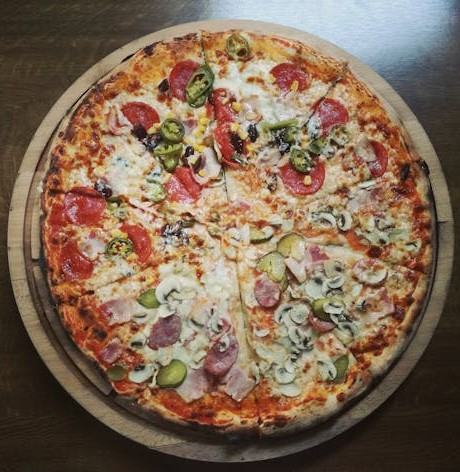
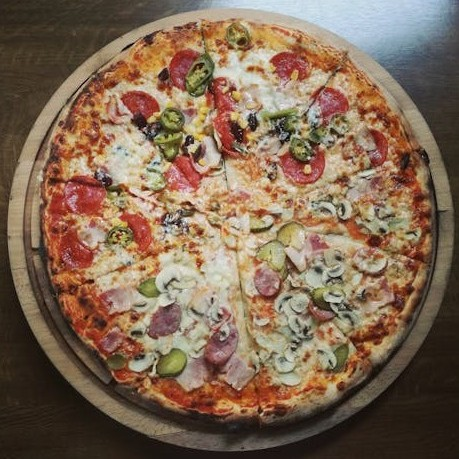
add text to category items

diff --git a/src/components/Categories.tsx b/src/components/Categories.tsx
@@ -10,12 +10,12 @@ function Categories() {
     return (
         <div className="categories"><h2>Categories - need scrollable element here</h2>
             <div className="category-items-container">
-                <div className="category-item"> <img src={burger} alt="Burger" /></div>
-                <div className="category-item"><img src={american} alt="American BBQ" /></div>
-                <div className="category-item"><img src={cafe} alt="Cafe food" /></div>
-                <div className="category-item"><img src={japanese} alt="Japanese ramen" /></div>
-                <div className="category-item"><img src={wraps} alt="Wraps" /></div>
-                <div className="category-item"><img src={pizza} alt="Pizza" /></div>
+                <div className="category-item"> <img src={burger} alt="Burger" /><p>Burger</p></div>
+                <div className="category-item"><img src={american} alt="American BBQ" /><p>American</p></div>
+                <div className="category-item"><img src={cafe} alt="Cafe food" /><p>Cafe</p></div>
+                <div className="category-item"><img src={japanese} alt="Japanese ramen" /><p>Japanese</p></div>
+                <div className="category-item"><img src={wraps} alt="Wraps" /><p>Wraps</p></div>
+                <div className="category-item"><img src={pizza} alt="Pizza" /><p>Pizza</p></div>
             </div>
             
         </div>

diff --git a/src/index.css b/src/index.css
@@ -199,14 +199,15 @@ header{
 }
 
 .category-items-container{
-  height: 11rem;
+  height: 14rem;
   width: auto;
   display: flex;
   gap: 1rem 2rem;
   justify-content: flex-start;
   flex-shrink: 0;
   margin-top: 2rem;
-  padding-top: 0.5rem;
+  padding-top: 0rem;
+  border-radius: 1rem;
   background: #888;
   overflow: scroll;
 
@@ -219,14 +220,17 @@ header{
   /* border: 2px solid green; */
   border-radius: 1rem;
   
-  height: 9.7rem;
+  height: 13rem;
   width: 9.7rem;
   min-width: 9.7rem;
 }
-
-.categories-carousel {
+.category-item p{
+  padding: 0.5rem;
+  padding-left: 1rem;
   
+ 
 }
+
 .restaurants{
   width: 100%;
   height: 25.4rem;
